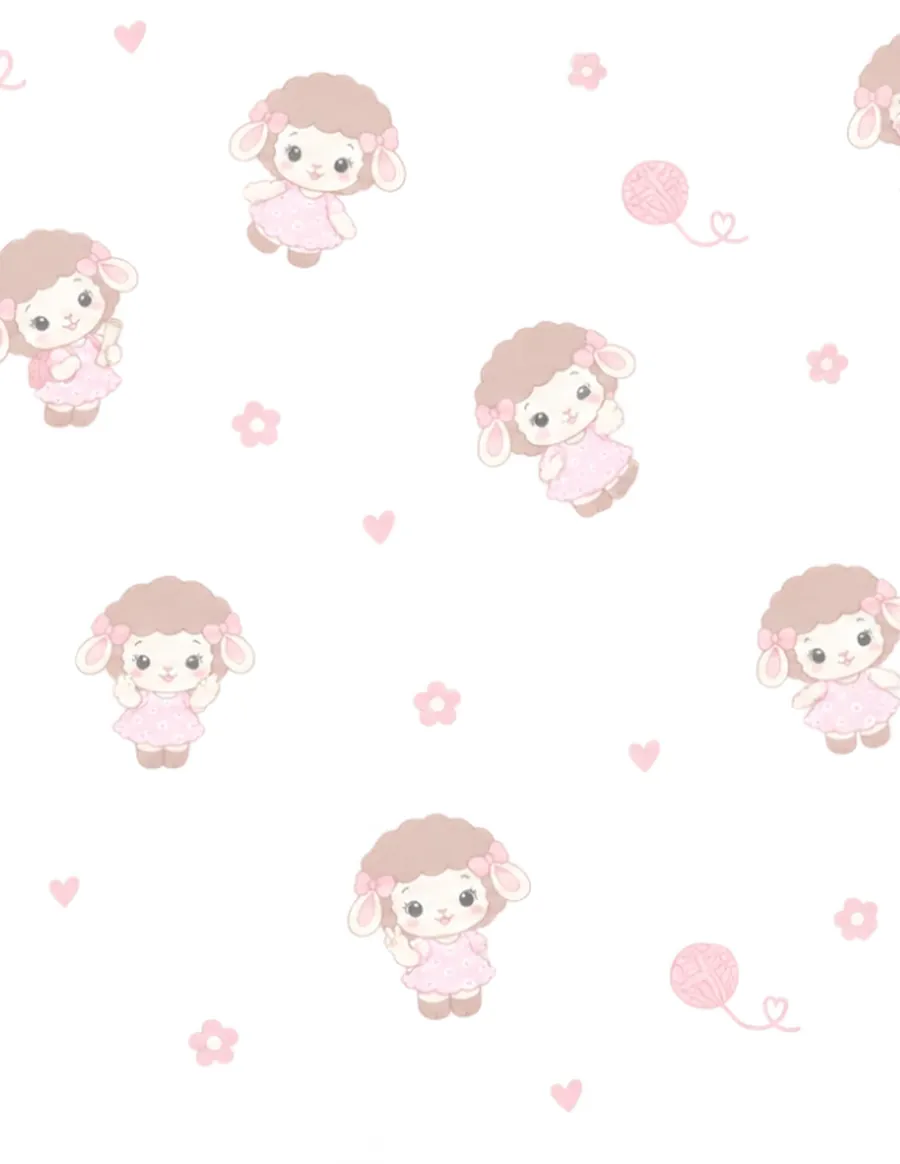
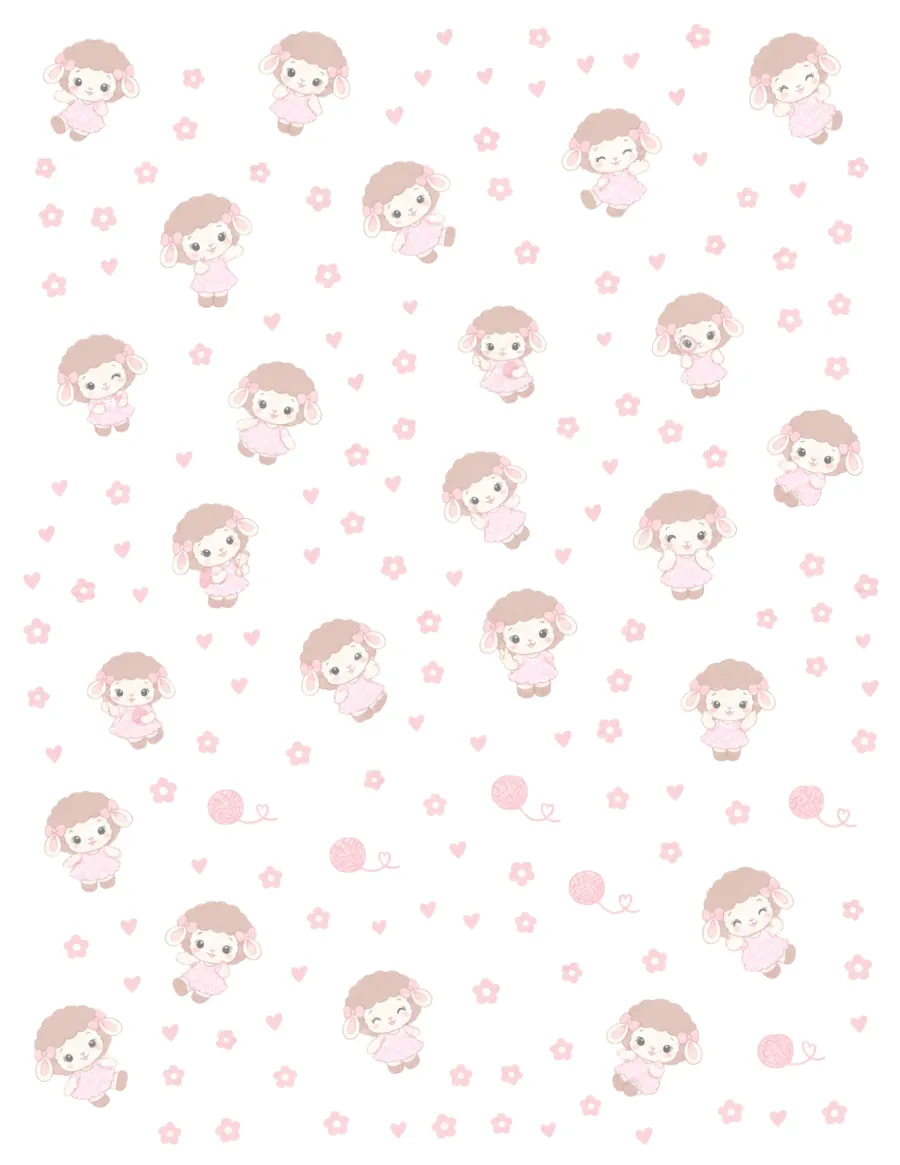
Agenda: portadas de Rosina y amigos y Ovejitas con personajes más pequeños y bien repartidos (#427)
Claude-Session: https://claude.ai/code/session_01U9SAsfVct6L94yoocG63si

diff --git a/js/agenda/portada.js b/js/agenda/portada.js
@@ -17,7 +17,7 @@
   };
   var FONDOS = { flores: 'Flores', hojas: 'Hojas', madejas: 'Madejas', rosina: 'Rosina y amigos', ovejitas: 'Ovejitas', liso: 'Liso' };
   var IMAGENES = {};
-  ['flores', 'hojas', 'madejas', 'rosina', 'ovejitas'].forEach(function (k) { IMAGENES[k] = '/img/agenda/fondo-' + k + '.webp?v=3'; });
+  ['flores', 'hojas', 'madejas', 'rosina', 'ovejitas'].forEach(function (k) { IMAGENES[k] = '/img/agenda/fondo-' + k + '.webp?v=4'; });
   function pintar() {
     var d = N.datos(), f = d['ag-portada-fondo'] && FONDOS[d['ag-portada-fondo']] ? d['ag-portada-fondo'] : 'flores', c = d['ag-portada-color'] && COLORES[d['ag-portada-color']] ? d['ag-portada-color'] : 'rosa';
     var p = COLORES[c], fondo = hoja.querySelector('.portada-fondo');
@@ -40,7 +40,7 @@
     N.datos()[id] = valor; pintar();
   }
   var fb = document.getElementById('portada-fondos'), cb = document.getElementById('portada-colores');
-  Object.keys(FONDOS).forEach(function (k) { var b = document.createElement('button'); b.type = 'button'; b.dataset.v = k; b.className = 'portada-op'; if (IMAGENES[k]) { var mi = document.createElement('span'); mi.className = 'portada-mini'; mi.setAttribute('aria-hidden', 'true'); mi.style.backgroundImage = 'url("/img/agenda/fondo-' + k + '-mini.webp?v=3")'; b.appendChild(mi); } b.appendChild(document.createTextNode(FONDOS[k])); b.addEventListener('click', function () { elegir('ag-portada-fondo', k); }); fb.appendChild(b); });
+  Object.keys(FONDOS).forEach(function (k) { var b = document.createElement('button'); b.type = 'button'; b.dataset.v = k; b.className = 'portada-op'; if (IMAGENES[k]) { var mi = document.createElement('span'); mi.className = 'portada-mini'; mi.setAttribute('aria-hidden', 'true'); mi.style.backgroundImage = 'url("/img/agenda/fondo-' + k + '-mini.webp?v=4")'; b.appendChild(mi); } b.appendChild(document.createTextNode(FONDOS[k])); b.addEventListener('click', function () { elegir('ag-portada-fondo', k); }); fb.appendChild(b); });
   Object.keys(COLORES).forEach(function (k) { var b = document.createElement('button'); b.type = 'button'; b.dataset.v = k; b.className = 'portada-color'; b.style.setProperty('--c', COLORES[k].a); b.setAttribute('aria-label', COLORES[k].n); b.title = COLORES[k].n; b.addEventListener('click', function () { elegir('ag-portada-color', k); }); cb.appendChild(b); });
   /* el nombre es el mismo de «Esta agenda es de» del inicio de la página */
   var nombre = document.getElementById('portada-nombre'), duena = document.getElementById('ag-duena');

diff --git a/agenda-rosina.html b/agenda-rosina.html
@@ -4112,7 +4112,7 @@ import { haySesionGuardada, obtenerCliente } from '/js/cuenta.js';
 <script src="/js/agenda/meses.js?v=1" defer></script>
 <script src="/js/agenda/pedidos.js?v=1" defer></script>
 <script src="/js/agenda/anio.js?v=1" defer></script>
-<script src="/js/agenda/portada.js?v=3" defer></script>
+<script src="/js/agenda/portada.js?v=4" defer></script>
 <script src="/js/agenda/voz.js?v=1" defer></script>
 <script src="/js/agenda/patron.js?v=1" defer></script>
 <script src="/js/agenda/tinta.js?v=1" defer></script>

diff --git a/herramientas/generar_fondos_agenda.py b/herramientas/generar_fondos_agenda.py
@@ -15,7 +15,7 @@ La cinta de cada fondo (pedido de Sara: dibujos pequeños y COMPLETOS, sin desen
 Todo es determinista. Uso: /usr/bin/python3 herramientas/generar_fondos_agenda.py   (necesita numpy y Pillow)"""
 import os
 import numpy as np
-from PIL import Image, ImageDraw
+from PIL import Image, ImageDraw, ImageFilter
 
 R = os.path.dirname(os.path.dirname(os.path.abspath(__file__)))
 ORIG = os.path.join(R, 'herramientas', 'agenda-fondos', 'originales'); SAL = os.path.join(R, 'img', 'agenda'); os.makedirs(SAL, exist_ok=True)
@@ -45,8 +45,8 @@ FONDOS = {
         {'caja': (775, 600, 1055, 788), 'm': 34, 'espejo': 'abajo', 'eje': 146}, {'caja': (686, 48, 738, 110), 'm': 24}, {'caja': (385, 600, 592, 788), 'm': 34}, {'caja': (1028, 540, 1082, 596), 'm': 24},
         {'caja': (1262, 205, 1400, 445), 'm': 34, 'espejo': 'derecha', 'eje': 126, 'elipse': True}, {'caja': (1138, 225, 1170, 256), 'm': 14}, {'caja': (503, 72, 552, 130), 'm': 24},
         {'caja': (244, 380, 294, 440), 'm': 24}, {'caja': (258, 640, 320, 700), 'm': 24}]},
-    'rosina':   {'tipo': 'patron', 'alto': 170, 'largo': 760, 'crema': (255, 250, 252), 'linea': (240, 150, 183), 'portada_x0': 560},
-    'ovejitas': {'tipo': 'patron', 'alto': 170, 'largo': 760, 'crema': (255, 247, 249), 'linea': (240, 168, 188), 'portada_x0': 700},
+    'rosina':   {'tipo': 'patron', 'alto': 170, 'largo': 760, 'crema': (255, 250, 252), 'linea': (240, 150, 183), 'semilla': 11},
+    'ovejitas': {'tipo': 'patron', 'alto': 170, 'largo': 760, 'crema': (255, 247, 249), 'linea': (240, 168, 188), 'semilla': 5},
 }
 
 
@@ -73,6 +73,42 @@ def portada_marco(L):
     arriba = min(range(int(alto * 0.3), int(alto * 0.7)), key=lambda a: tinta[a - 1] + tinta[H - (alto - a)])   # dónde unir: por donde la costura corte menos dibujos
     sal = Image.new('RGB', (W, alto), (255, 255, 255)); sal.paste(P.crop((0, 0, W, arriba)), (0, 0)); sal.paste(P.crop((0, H - (alto - arriba), W, H)), (0, arriba))
     return sal
+
+
+def portada_patron(L, semilla):
+    """Portada de un patrón (Rosina y amigos, ovejitas), pedido de Sara 29-oct: personajes MÁS PEQUEÑOS y bien repartidos. Se recortan de la imagen original todos los dibujos que están enteros
+    (personajes, flores, hojitas, corazones, ovillos) y se acomodan de nuevo, reducidos, en una hoja carta: primero los personajes, separados entre sí y sin repetir el mismo al lado, y luego
+    los adornos en los espacios. Es determinista (semilla fija)."""
+    import random
+    rnd = random.Random(semilla); K = 4; a = np.asarray(L.convert('RGB'), dtype=np.int16); h, w = a.shape[:2]
+    oc = ((255 - a.min(axis=2)) >= 12); H4, W4 = h // K, w // K
+    pq = oc[:H4 * K, :W4 * K].reshape(H4, K, W4, K).mean(axis=(1, 3)) > 0.06
+    d = pq.copy(); d[1:] |= pq[:-1]; d[:-1] |= pq[1:]; d[:, 1:] |= pq[:, :-1]; d[:, :-1] |= pq[:, 1:]
+    lab, n = etiquetas(d); piezas = []
+    for i in range(1, n + 1):
+        ys, xs = np.where(lab == i)
+        if len(ys) < 6 or ys.min() == 0 or xs.min() == 0 or ys.max() == H4 - 1 or xs.max() == W4 - 1: continue    # solo las que están enteras
+        x0, x1, y0, y1 = xs.min() * K, (xs.max() + 1) * K, ys.min() * K, (ys.max() + 1) * K
+        m = np.kron((lab[ys.min():ys.max() + 1, xs.min():xs.max() + 1] == i), np.ones((K, K), bool))
+        rec = L.crop((x0, y0, x1, y1)).convert('RGB'); mask = Image.fromarray((m[:rec.height, :rec.width] * 255).astype(np.uint8), 'L').filter(ImageFilter.MaxFilter(5))
+        piezas.append((max(rec.size), rec, mask))
+    grandes = [x for x in piezas if x[0] >= 95]; chicas = [x for x in piezas if 30 <= x[0] < 95]
+    esc = 112.0 / float(np.median([x[0] for x in grandes]))                                              # los personajes miden ~112 px de alto en la hoja de 900 px de ancho
+    W, Hh = 900, round(900 * 11 / 8.5); lienzo = Image.new('RGB', (W, Hh), (255, 255, 255)); puestos = []
+    def reducir(x, extra=1.0):
+        t, rec, mask = x; k = esc * extra; sz = (max(1, round(rec.width * k)), max(1, round(rec.height * k))); return rec.resize(sz, Image.LANCZOS), mask.resize(sz, Image.LANCZOS)
+    def libre(cx, cy, r, sep):
+        return all((cx - px) ** 2 + (cy - py) ** 2 >= (r + pr + sep) ** 2 for px, py, pr in puestos)
+    orden = list(grandes); rnd.shuffle(orden); k = 0; ultimo = None
+    for _ in range(4000):
+        x = orden[k % len(orden)]
+        if x is ultimo: k += 1; continue
+        im, mk = reducir(x); r = max(im.size) / 2.0; cx = rnd.uniform(r + 22, W - r - 22); cy = rnd.uniform(r + 22, Hh - r - 22)
+        if libre(cx, cy, r, 34): lienzo.paste(im, (round(cx - im.width / 2), round(cy - im.height / 2)), mk); puestos.append((cx, cy, r)); ultimo = x; k += 1
+    for _ in range(9000):
+        x = rnd.choice(chicas); im, mk = reducir(x, 1.0); r = max(im.size) / 2.0; cx = rnd.uniform(r + 16, W - r - 16); cy = rnd.uniform(r + 16, Hh - r - 16)
+        if libre(cx, cy, r, 16): lienzo.paste(im, (round(cx - im.width / 2), round(cy - im.height / 2)), mk); puestos.append((cx, cy, r))
+    return lienzo
 
 
 # ---------- Búsqueda de recortes ----------
@@ -216,6 +252,6 @@ if __name__ == '__main__':
     for f, c in FONDOS.items():
         L = abrir(f)
         if c['tipo'] == 'marco': guardar_portada(f, portada_marco(L))                                    # vertical y de la forma de la hoja carta
-        else: ancho_carta = round(L.height * 8.5 / 11); guardar_portada(f, L.crop((c['portada_x0'], 0, c['portada_x0'] + ancho_carta, L.height)))
+        else: guardar_portada(f, portada_patron(L, c['semilla']))                                       # personajes pequeños y repartidos, con la forma de la hoja carta
         Lh, Lv = construir(f, L, c)
         print('ok', f, '- cinta de', Lh, 'x', Lv, 'px por lado')

diff --git a/CLAUDE.md b/CLAUDE.md
@@ -20,7 +20,7 @@ Sitio estático en HTML/CSS/JS publicado con GitHub Pages desde la rama `main` (
 - **Copia de la Agenda de Rosina en tu cuenta (27-oct-2026, a pedido de Sara: «ambos»):** gratis con la cuenta y solo con autorización expresa (ventana `#modal-nube` en `agenda-rosina.html`, `VERSION_NUBE` = `fn_nube_version()` = `2026-10-27`, texto en `politicas.html#datos` apartado 11; se suben juntos). Sin membresía (`migracion-31-agenda-nube-gratis.sql`): `agenda_nube_consentir/leer/guardar/borrar`. Si la agenda del dispositivo está vacía (por ejemplo, tras borrar el historial) y la cuenta tiene copia, se recupera sola al volver a entrar; si hay conflicto se pregunta. El **recordatorio de copia** (`#agenda-recordatorio`) sale si hay datos escritos y la última copia descargada tiene 14 días o más y la nube no está activa («Ahora no» lo calla 7 días; se calcula en el dispositivo). Pruebas: `probar_agenda_nube.py` (base simulada) y `probar_agenda_copia.py` (limpieza al cargar un archivo). La conservación es «mientras exista la cuenta»; pendiente con la abogada si conviene un plazo por inactividad.
 - **Agenda para tejedoras, rediseño del 27-oct-2026 (pedido de Sara; antes «Agenda de Rosina»; la dirección sigue siendo `/agenda-rosina.html`):** el código nuevo está en `js/agenda/` y `css/agenda-fichas.css`, y se conecta con el script en línea de `agenda-rosina.html` por `window.lrAgendaNucleo` (tablas, datos, guardar, leerFecha) y el evento `agenda-guardada`. **Los datos siguen con los mismos nombres de siempre** (`ag-p1-cliente`…, en `localStorage.rosinaAgenda`), así el calendario, el tablero, las copias, la nube y los importadores no cambian. Piezas: `fichas.js` (cada renglón de una tabla es una **ficha desplegable**: se ve solo la que se llena, las demás quedan cerradas en lista con su título y etiquetas; «Agregar ficha», borrar sube las siguientes; estados y alarmas de pedidos y proyectos; agujas con fecha de compra y sugerencia de cambio; lo cumplido pasa al final; impresión en blanco con 3 fichas vacías; configuración por tabla en `LISTAS`), `formas.js` (casillas de texto ampliables + **versiones**: prioridades del mes, ficha de proyecto, semana, feria y patrón propio guardan cada mes/proyecto/semana como ficha con su nombre en `datos._ver`; la que se ve sigue en los nombres de siempre; el mes y la semana se proponen solos pero no se guardan hasta que la persona escribe), `ventas.js` (ventas por mes: el mes sale de la fecha de cada venta, totales del mes elegido), `anio.js` (Mi año tejiendo: cada mes muestra lo último escrito y abre a página entera), `portada.js` (portada imprimible: fondos de flores, hojas, madejas, Rosina y liso dibujados en el código; nombre de «Esta agenda es de»), `voz.js` (escribir hablando con la Web Speech API del navegador; el audio lo procesa Google/Apple, no Lana Rosa; aviso previo y párrafo en `politicas.html#datos`), `patron.js` (Diseña tu patrón en 7 pasos, vista previa, imprimir y bajar .txt), `tinta.js` (lápiz: trazos con Pointer Events guardados en `datos._tinta`; lápiz digital y mouse dibujan, el dedo solo mueve la página salvo «Dedo»; **falta probar con un lápiz digital real en iPad y Samsung**), `merceria.js` (bloques `.oferta-merceria` que ofrecen materiales reales de la Mercería y los agregan a la lista de compras: si no hay existencias dice «Pronto» y lleva al catálogo y al WhatsApp), `xlsx.js` + `exportar.js` (Exportar a Excel: un libro .xlsx con una hoja por cada hoja con datos, sin librerías). Hojas nuevas: Portada, Mis ideas y Diseña tu patrón (38 hojas desde el 28-oct; si se suma otra, actualizar «Hoja 1 de 38» y «Ver las 38 hojas» en `agenda-rosina.html`). Pruebas con sesión simulada: `herramientas/pruebas/probar_agenda_fichas.py`, `_versiones.py`, `_listas.py`, `_nuevas.py`, `_tinta.py` (ayudas en `agenda_util.py`). **Módulos del 28-oct-2026:** `meses.js` (ventas y gastos por mes), `pedidos.js` (total de la compra = cantidad × valor unidad + envío, saldo y WhatsApp; **«Valor total» se ocultó el 29-oct a pedido de Sara** —era igual a «Total compra»—: el campo `ag-pN-precio` sigue existiendo oculto con el valor de los productos sin envío, y el calendario, el tablero y las deudas usan `totalcompra`); **clienta automática (29-oct, pedido de Sara):** al salir del campo nombre o teléfono de un pedido, `pedidos.js` la registra en `tabla-clientas` (nombre, WhatsApp y «desde» de hoy) si no está (mismo nombre sin tildes ni mayúsculas, o mismo teléfono) y le completa el WhatsApp si le faltaba, `planeador.js` (hoja «Planeador del día»: agrupa lo agendado de `window.lrAgenda.eventos()` y guarda tareas/notas en `datos._dias`; enlaces gratis a Google Calendar; la sincronización con la cuenta está en la tarjeta de `google-calendar.js`), `dibujo.js` (lienzos de dibujo y hoja de puntos en `datos._dib`/`_puntosN`; fotos reducidas a 760 px), `muestras.js` (muestras de lana desde la paleta de la Mercería) y `prendas.js` (prendas a medida: tallas XS–XL de referencia, cálculos y SVG de maniquí y esquema). La paleta es la página `/merceria/paleta-de-colores/` con `obtener_paleta_merceria()` (migración 32, pública a propósito). Pruebas `probar_agenda_negocio/dibujo/planeador/prendas.py`. **Aprende y compra + promociones propias (28-oct-2026, a pedido de Sara):** hoja `#aprende-compra` (`ecosistema.js`): pedir clase personalizada (arma un mensaje de WhatsApp con tema, nivel, personas, horas y horarios; valor estimado = `PRECIO_HORA` $25.000 × horas × personas, el mismo de `/academy/`: si cambia allá, cambiarlo en `ecosistema.js`), cursos virtuales (hoy «Muy pronto»; cuando haya, llenar `CURSOS` en `ecosistema.js`), patrones comprados con descarga (el módulo de cuenta de `agenda-rosina.html` expone `lrComprasPatrones`, `lrComprasEstado` y `lrDescargarPatron`; usa `mis_compras_patrones` y la función `descargar-patron`), patrones a la venta (categoría «Patrones» de `obtener_merceria_web`), YouTube y «Todo Lana Rosa». `promo.js`: bloques `.promo-eco` (`data-hoja`, `data-cuantas`, `data-modo="todas"`) con tarjetas del ecosistema que rotan cada día; catálogo `PROMOS` dentro del archivo; evento de medición `promo_agenda_click` (promo, hoja). Hoy van en Planeador, Portada, Mis ideas y Lista de compras (las hojas que se propusieron como gratis) y no se imprimen. Prueba: `probar_agenda_ecosistema.py`. **Google Calendar se volvió a encender el 29-oct-2026** (ver arriba). **Desde el 29-oct-2026 la agenda está ABIERTA PARA TODOS con su cuenta (`AGENDA_EN_VENTA = true`, decisión de Sara; textos de Academy, hub de Rosina, políticas y `llms.txt` cambiados a «gratis con tu cuenta»; `?gratis=1` muestra el modo de hojas gratis solo en esa visita).** Lo que sigue describe el mecanismo de puerta, que queda listo por si se vuelve a cerrar o se vende. **Puerta de la agenda: «hojas gratis» + agenda completa en construcción (28-oct-2026, decisión de Sara):** la agenda NO está en acceso libre completo: mientras `AGENDA_EN_VENTA = false` (script al inicio de `agenda-rosina.html`) el público (con cuenta, como siempre) ve solo las hojas gratis —`HOJAS_GRATIS` en el script «Modo hojas gratis», justo antes del script principal: Planeador del día, Portada, Aprende y compra, Mis ideas y Lista de compras, con promociones del ecosistema— y un aviso «La agenda completa, en construcción» (`#agenda-aviso-completa`, `.indice-construccion`, `.menu-aviso`). Las demás hojas siguen en la página pero pierden la clase `hoja-agenda` y ganan `hoja-bloqueada` (oculta, no se abre ni se busca ni se imprime); los textos que solo valen con la agenda completa llevan `data-completa`. Quien abre `/agenda-rosina.html?avance=1` la ve completa (queda activado en ese navegador; `?avance=0` lo quita). **Acceso previo por cuenta (28-oct-2026, pedido de Sara):** quien entra con un correo de la tabla `agenda_acceso_previo` (migración 35; solo lectura de su propia fila por seguridad de filas, sin funciones) ve la agenda completa: `js/agenda/acceso.js` lo consulta, guarda la marca `lrAgendaAcceso` en el dispositivo (solo vale con sesión guardada y se vuelve a comprobar en cada visita) y recarga la página una vez; hoy está `jennifer7610@gmail.com`. Para agregar o quitar a alguien: tabla en el panel de Supabase (correo en minúsculas). Prueba: `probar_agenda_acceso.py`. Para cambiar qué hojas son gratis, editar `HOJAS_GRATIS` (y marcar `data-gratis` en el `<article>`, solo informativo). Para ponerla a la venta: decidir cómo se cobra, poner `AGENDA_EN_VENTA = true` (o una compuerta por compra), volver a cambiar los textos «próximamente» (academy, recursos, hub de Rosina, llms.txt, políticas). Las pruebas activan la vista con `lrAgendaAvance` (ver `agenda_util.py`).
 - **Cuarta casa: Agenda (29-oct-2026, a pedido de Sara):** `agenda-rosina.html` es la casa `agenda` (verde vivo `#12A66E`/`#0C8556` en botones, `--casa-t1/t2` verdes al final de `css/comun.css`, que además copia para `agenda` todas las reglas de `academy`; si se agrega una regla de Academy a `comun.css`, copiarla para `agenda`). En `sincronizar_encabezado.py`: `CASAS`, `CASA_DE`, `CLASE['agenda']='g-agenda'`, `MENUS['agenda']` (Mi agenda, Aprende y compra, Material gratis de Rosina, Sobre nosotras, Ayuda), `MOVIL['agenda']`, `LOGO`/`LOGO_IMG` (`img/logo-agenda-360.webp`, lo genera `herramientas/generar_logo_agenda.py`), `ICONOS`, `APP`, `PIE_SIMPLE`, `CASAS_ICONO` (📅) y `logo_pie` (logo fijo, sin animación). Sale en «Nuestras casas» del pie de todas las páginas y como cuarta tarjeta de «Explora el universo Lana Rosa» del inicio. La agenda ya no lleva la barra «Rosina» (sigue en el Rincón de Rosina, que es de Academy). Íconos de las 4 casas: **redondos y con la ovejita grande** (`generar_iconos_app.py`, fuente `herramientas/iconos-app/ovejita-256.png`; verde de la agenda `#1FB06F`).
-- **Fondos de la Portada y cinta de las hojas de la agenda (29-oct-2026, a pedido de Sara):** seis opciones en la Portada: Flores, Hojas, Madejas, Rosina y amigos, Ovejitas y Liso. Los originales horizontales que pasó Sara están en `herramientas/agenda-fondos/originales/` y `herramientas/generar_fondos_agenda.py` genera en `img/agenda/`: la imagen de la **Portada** (`fondo-<f>.webp`, siempre con la forma exacta de la hoja carta 8,5 × 11 para llenar toda la hoja con `background-size: cover`: las acuarelas y los dibujos de madejas se giran a vertical y se unen la parte de arriba y la de abajo —el centro es papel vacío y lo tapa la tarjeta—, por donde la costura corte menos dibujos; los patrones «Rosina y amigos» y «Ovejitas» NO se giran, se recortan con esa forma), su miniatura `-mini` y la **cinta** `fondo-<f>-borde.webp`. Si la persona elige un fondo, **todas las hojas** (`#agenda[data-fondo-hojas]` en `css/agenda-fichas.css`) llevan una **cinta delgada pegada por los cuatro lados** (pedido de Sara: «una cinta delgada, que se vea delgada»): un anillo con `border-image` (`slice` 40 = `T` del script; `round`), esquinas en ángulo, líneas finas en las orillas y una sombrita; mide 18 px en computador, 16 en tablet y 12 en celular (`--bw`) y siempre es menor que el relleno de la hoja (28 px), así el contenido no se mueve; se imprime. La cinta se arma así (pedido de Sara, 29-oct: «imágenes más claras, sin desenfoque, y más pequeñas para que se vean completas las hojas, las flores, las madejas»): en los marcos (flores, hojas, madejas) es una **guirnalda de dibujos sueltos y enteros** (cada flor, hoja, madeja, tijera, marcador… se recorta con una caja de `SELLOS` en `generar_fondos_agenda.py`, se limpia lo que no es suyo y se reduce a 22–34 px; las madejas que el borde de la imagen corta —la azul y la amarilla— se completan reflejándolas) y en los patrones con recortes cuyos extremos no cortan dibujos (los animales siempre derechos y enteros); todo va mezclado con el crema (`DESVANECIDO` = 0,42: más claro, no color pleno) y **sin desenfoque**; las líneas de las orillas y las esquinas quedan nítidas. Si se cambia una imagen de `originales/`, revisar las cajas de `SELLOS`. «Liso» no lleva cinta. La clave `rosina` (antes un collage de stickers) ahora es «Rosina y amigos». **Las imágenes de los fondos nuevos son de IA (ChatGPT/Gemini): mismos términos de uso por verificar que las demás.** La imagen «anime» **no se usa**: sus personajes parecen de series con derechos de autor (Gojo, Kaneki, el protector de Naruto). Para sumar un fondo: archivo en `originales/`, línea en `FONDOS` de `generar_fondos_agenda.py`, `FONDOS` e `IMAGENES` en `portada.js` y una regla `--cinta` en `agenda-fichas.css`.
+- **Fondos de la Portada y cinta de las hojas de la agenda (29-oct-2026, a pedido de Sara):** seis opciones en la Portada: Flores, Hojas, Madejas, Rosina y amigos, Ovejitas y Liso. Los originales horizontales que pasó Sara están en `herramientas/agenda-fondos/originales/` y `herramientas/generar_fondos_agenda.py` genera en `img/agenda/`: la imagen de la **Portada** (`fondo-<f>.webp`, siempre con la forma exacta de la hoja carta 8,5 × 11 para llenar toda la hoja con `background-size: cover`: las acuarelas y los dibujos de madejas se giran a vertical y se unen la parte de arriba y la de abajo —el centro es papel vacío y lo tapa la tarjeta—, por donde la costura corte menos dibujos; los patrones «Rosina y amigos» y «Ovejitas» se rearman: `portada_patron` recorta los dibujos enteros del original y los reparte, más pequeños, en una hoja carta con semilla fija), su miniatura `-mini` y la **cinta** `fondo-<f>-borde.webp`. Si la persona elige un fondo, **todas las hojas** (`#agenda[data-fondo-hojas]` en `css/agenda-fichas.css`) llevan una **cinta delgada pegada por los cuatro lados** (pedido de Sara: «una cinta delgada, que se vea delgada»): un anillo con `border-image` (`slice` 40 = `T` del script; `round`), esquinas en ángulo, líneas finas en las orillas y una sombrita; mide 18 px en computador, 16 en tablet y 12 en celular (`--bw`) y siempre es menor que el relleno de la hoja (28 px), así el contenido no se mueve; se imprime. La cinta se arma así (pedido de Sara, 29-oct: «imágenes más claras, sin desenfoque, y más pequeñas para que se vean completas las hojas, las flores, las madejas»): en los marcos (flores, hojas, madejas) es una **guirnalda de dibujos sueltos y enteros** (cada flor, hoja, madeja, tijera, marcador… se recorta con una caja de `SELLOS` en `generar_fondos_agenda.py`, se limpia lo que no es suyo y se reduce a 22–34 px; las madejas que el borde de la imagen corta —la azul y la amarilla— se completan reflejándolas) y en los patrones con recortes cuyos extremos no cortan dibujos (los animales siempre derechos y enteros); todo va mezclado con el crema (`DESVANECIDO` = 0,42: más claro, no color pleno) y **sin desenfoque**; las líneas de las orillas y las esquinas quedan nítidas. Si se cambia una imagen de `originales/`, revisar las cajas de `SELLOS`. «Liso» no lleva cinta. La clave `rosina` (antes un collage de stickers) ahora es «Rosina y amigos». **Las imágenes de los fondos nuevos son de IA (ChatGPT/Gemini): mismos términos de uso por verificar que las demás.** La imagen «anime» **no se usa**: sus personajes parecen de series con derechos de autor (Gojo, Kaneki, el protector de Naruto). Para sumar un fondo: archivo en `originales/`, línea en `FONDOS` de `generar_fondos_agenda.py`, `FONDOS` e `IMAGENES` en `portada.js` y una regla `--cinta` en `agenda-fichas.css`.
 - **Hojas de cada pestaña en una lista desplegable (29-oct-2026, a pedido de Sara):** en `agenda-rosina.html`, las hojas de la pestaña actual (Inicio, Proyectos, Materiales…) se eligen en un `<select>` (`#selector-hoja`/`#selector-hoja-lista`, con «Hojas de Proyectos · 2 de 12»; antes eran muchos botones con ícono, `chips-hojas`). Lo arma `window.lrPintarPestanas` a partir del menú oculto `#menu-hojas-lista`: se rehace solo al cambiar de pestaña (así conserva el foco al cambiar de hoja dentro de la misma), se oculta si la pestaña tiene una sola hoja y no se imprime. El Índice sigue con sus atajos. Prueba: `probar_agenda_selector.py`.
 - **Membresía de la Agenda de Rosina: APAGADA el 12-oct-2026 por decisión de Sara** (la agenda completa es gratuita con la cuenta; no se vende membresía por ahora). Se retiraron de `agenda-rosina.html` la tarjeta, las ventanas y el módulo, que están en `herramientas/agenda-premium/membresia-apagada/` con el checklist para volver a venderla; `crear-pago-wompi` rechaza `accion: 'membresia'` mientras `MEMBRESIA_EN_VENTA = false`. Lo que sigue describe cómo estaba construida (precios $7.000 COP/mes o $57.000 COP/año, Wompi; precios cambiados el 9-oct-2026, antes $10.000 y $60.000): `crear-pago-wompi` con `accion: 'membresia'` (precio fijado en el servidor, copia en `herramientas/cuentas-clientes/funciones/crear-pago-wompi.ts`), tabla `membresias_agenda`, `mi_membresia()`, trigger que activa al pagar y avisos de vencimiento (pg_cron). El bloqueo de hojas de pago se controlaba con `MEMBRESIA_ACTIVA` (módulo apagado). Copia de la agenda en la nube solo para miembros: `agenda_nube` + `agenda_nube_leer/guardar` (`migracion-15-agenda-nube.sql`; lógica en el módulo de membresía de `agenda-rosina.html`, base en `lrNubeBase`). Condiciones en `politicas.html#membresia`; **aceptación expresa registrada** (12-oct-2026: dos casillas en la ventana de pago; `crear-pago-wompi` v32 no crea el pedido sin ellas y guarda versión y hora en `pedidos_web`; constancia en el correo del comprobante) y **copia en la nube solo con autorización** (apagada por defecto, `agenda_nube_consentir`, registro en `agenda_nube_consentimientos`; se conserva 90 días tras vencer y se borra sola con `fn_depurar_agenda_nube`; `agenda_nube_borrar()` retira la autorización): `migracion-18-aceptacion-consentimiento-retencion.sql`. Las versiones del texto (`VERSION_CONDICIONES` en la función y en `agenda-rosina.html`, `VERSION_NUBE` en la agenda y `fn_nube_version()` en la base) se suben juntas si cambia de forma importante lo que la persona acepta. El MCP de Supabase se queda esperando con SQL que contenga DROP o DELETE (ver el encabezado de la migración 18). Ingresos para contabilidad: `ingresos_digitales_web(desde, hasta)` y `agenda_nube_borrar()` (`migracion-16-borrar-nube-ingresos-digitales.sql`). Plan en `herramientas/agenda-premium/PLAN.md`, SQL en `migracion-14-membresia-agenda.sql`.
 - Apertura de la tienda física (16-nov-2026): los textos visibles cambian solos con `js/apertura.js` (`data-apertura="antes"/"despues"`); los estáticos (JSON-LD de FAQ, `llms.txt`) los cambia `herramientas/activar_apertura.py` desde `.github/workflows/activar-apertura.yml`; también quita el paréntesis «(apertura: 15 de noviembre de 2026)» de las frases «Recoger en la tienda física…» (8 archivos; si se escribe esa frase en otra página, agregar la página a `CAMBIOS` del script).
